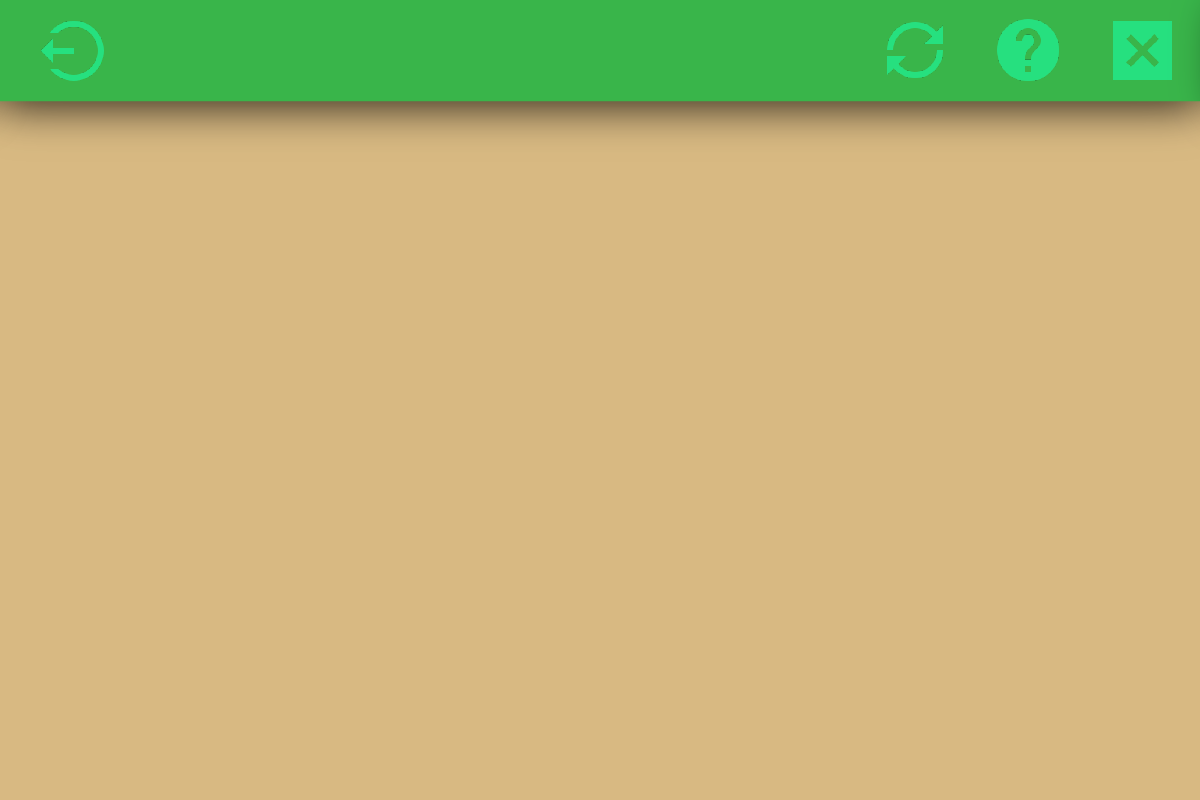
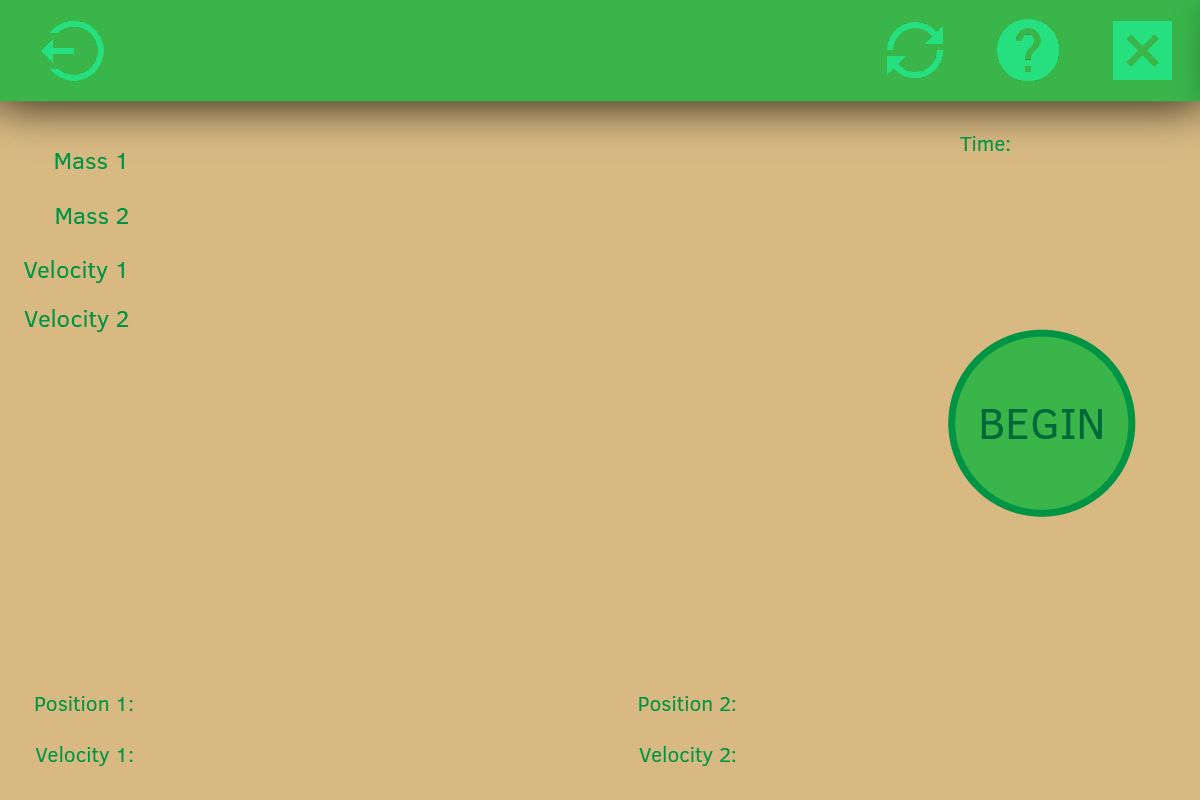
Fixed collisions

diff --git a/Collision.java b/Collision.java
@@ -50,6 +50,16 @@ public class Collision extends Simulation {
             
             marble1.setVelocity(velocity1.getValue());
             marble2.setVelocity(velocity2.getValue());
+        } else {
+            if (marble1.collided()) {
+                double u1 = marble1.getVelocity().getX();
+                double u2 = marble2.getVelocity().getX();
+                double m1 = marble1.getMass();
+                double m2 = marble2.getMass();
+                
+                marble1.calculateFinalVelocity(u2, m2);
+                marble2.calculateFinalVelocity(u1, m1);
+            }
         }
     }
     
@@ -92,16 +102,16 @@ public class Collision extends Simulation {
         time = new LinkedLabel(955, 45, 300, 200, new Color(0, 0, 0, 0), () -> String.format("%.02f", marble1.getTime()) + " s", 25, new Color(0, 148, 68));
         time.addToWorld(this);
         
-        x1 = new LinkedLabel(955, 95, 300, 200, new Color(0, 0, 0, 0), () -> String.format("%.01f", marble1.getPosition().getX()) + " m", 25, new Color(0, 148, 68));
+        x1 = new LinkedLabel(50, 605, 300, 200, new Color(0, 0, 0, 0), () -> String.format("%.01f", marble1.getPosition().getX()) + " m", 25, new Color(0, 148, 68));
         x1.addToWorld(this);
         
-        v1 = new LinkedLabel(955, 145, 300, 200, new Color(0, 0, 0, 0), () -> String.format("%.01f", marble1.getVelocity().getX()) + " ms⁻¹", 25, new Color(0, 148, 68));
+        v1 = new LinkedLabel(50, 655, 300, 200, new Color(0, 0, 0, 0), () -> String.format("%.01f", marble1.getVelocity().getX()) + " ms⁻¹", 25, new Color(0, 148, 68));
         v1.addToWorld(this);
         
-        x2 = new LinkedLabel(955, 195, 300, 200, new Color(0, 0, 0, 0), () -> String.format("%.01f", marble2.getPosition().getX()) + " m", 25, new Color(0, 148, 68));
+        x2 = new LinkedLabel(650, 605, 300, 200, new Color(0, 0, 0, 0), () -> String.format("%.01f", marble2.getPosition().getX()) + " m", 25, new Color(0, 148, 68));
         x2.addToWorld(this);
         
-        v2 = new LinkedLabel(955, 245, 300, 200, new Color(0, 0, 0, 0), () -> String.format("%.01f", marble2.getVelocity().getX()) + " ms⁻¹", 25, new Color(0, 148, 68));
+        v2 = new LinkedLabel(650, 655, 300, 200, new Color(0, 0, 0, 0), () -> String.format("%.01f", marble2.getVelocity().getX()) + " ms⁻¹", 25, new Color(0, 148, 68));
         v2.addToWorld(this);
     }
 

diff --git a/Marble.java b/Marble.java
@@ -15,11 +15,27 @@ public class Marble extends RigidBody {
         this.force = new Force();
     }
     
+    public void act() {
+        super.act();
+    }
+    
     protected void createImage() {
         GreenfootImage image = new GreenfootImage((int) (mass * 10), (int) (mass * 10));
         image.setColor(colour);
         image.fillOval(0, 0, (int) (mass * 10), (int) (mass * 10));
         setImage(image);
+    }
+    
+    public void calculateFinalVelocity(double u2, double m2) {
+        double u1 = velocity.getX();
+        double m1 = mass;
+        double v1 = u1 * (m1 - m2) / (m1 + m2) + u2 * 2 * m2 / (m1 + m2);
+        
+        velocity = new Velocity(v1, 0);
+    }
+    
+    public boolean collided() {
+        return isTouching(Marble.class);
     }
     
     public void setMass(double mass) {

diff --git a/Menu.java b/Menu.java
@@ -17,7 +17,7 @@ public class Menu extends World {
      */
     public Menu() {    
         // Create a new world with 1200x800 cells with a cell size of 1x1 pixels.
-        super(1200, 800, 1);
+        super(1200, 800, 1, false);
         prepare();
         setBackground(new GreenfootImage("Menu.png"));
     }

diff --git a/Simulation.java b/Simulation.java
@@ -21,7 +21,7 @@ public class Simulation extends World {
      */
     public Simulation() {    
         // Create a new world with 1200x800 cells with a cell size of 1x1 pixels.
-        super(1200, 800, 1);
+        super(1200, 800, 1, false);
         prepare();
     }
     

diff --git a/RigidBody.java b/RigidBody.java
@@ -136,6 +136,10 @@ public abstract class RigidBody extends Actor {
         return time;
     }
     
+    public double getMass() {
+        return mass;
+    }
+    
     public Position getPosition() {
         return position;
     }
